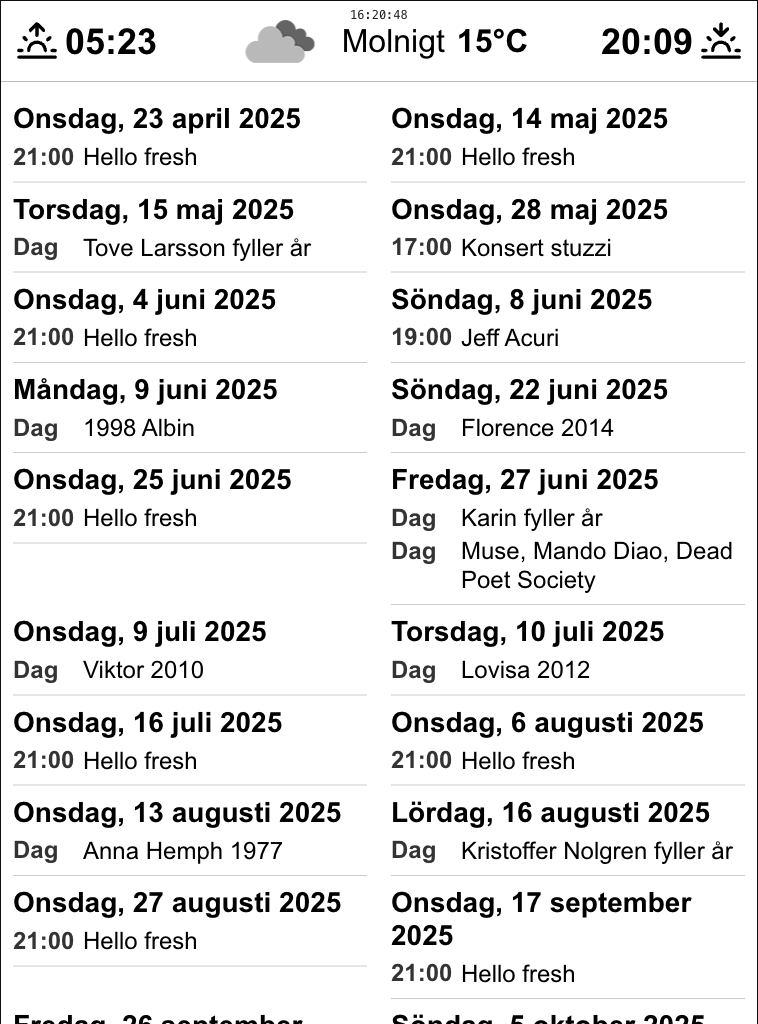
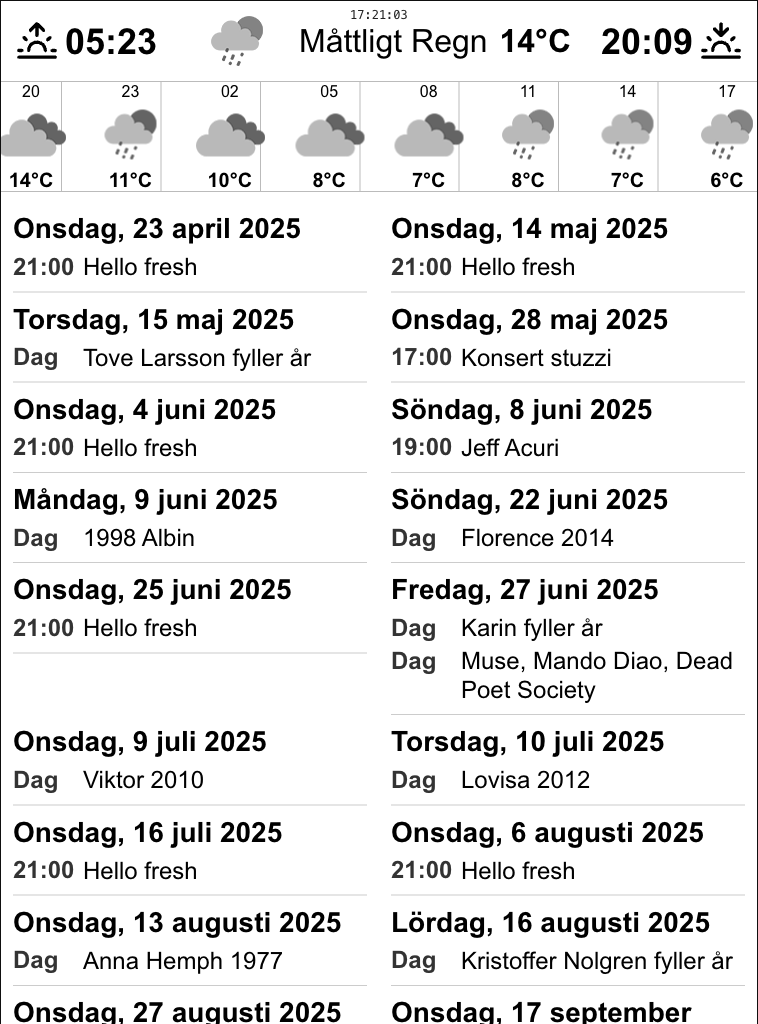
Incremental change

Changed region(s): [[0.0, 0.0, 0.971, 1.0], [0.9103, 0.0938, 1.0, 0.1875]]

diff --git a/dashboard/src/components/Weather/ForecastBlock.css b/dashboard/src/components/Weather/ForecastBlock.css
@@ -2,31 +2,33 @@
   display: flex;
   flex-direction: column;
   align-items: center;
-  padding: 8px;
   border-right: 1px solid #bbb;
-  min-width: 80px;
+  width: 94.75px;
 }
 
 .forecast-block:last-child {
   border-right: none;
 }
 
-.forecast-block__time {
-  font-size: 16px;
-  margin-bottom: 4px;
-}
 
 .forecast-block__icon {
-  margin: 4px 0;
+  margin: -20px;
 }
 
 .forecast-block__icon-img {
-  width: 40px;
-  height: 40px;
+  width: 100px;
   filter: grayscale(1) contrast(0.5);
 }
 
-.forecast-block__temp {
-  font-size: 20px;
+.forecast-block__time {
+  font-size: 24px;
   font-weight: bold;
+  margin-top: 4px;
+}
+
+.forecast-block__temp {
+  font-size: 24px;
+  font-weight: bold;
+  margin-top: -4px;
+  margin-bottom: 4px;
 } 

diff --git a/README.md b/README.md
@@ -5,7 +5,7 @@ A dashboard application designed to display weather and calendar information on 
 ## Features
 
 - Current weather display with temperature and conditions
-- 8-hour weather forecast
+- 24-hour weather forecast
 - Calendar events display
 - Timestamp display
 - Optimized for Kindle e-ink display
